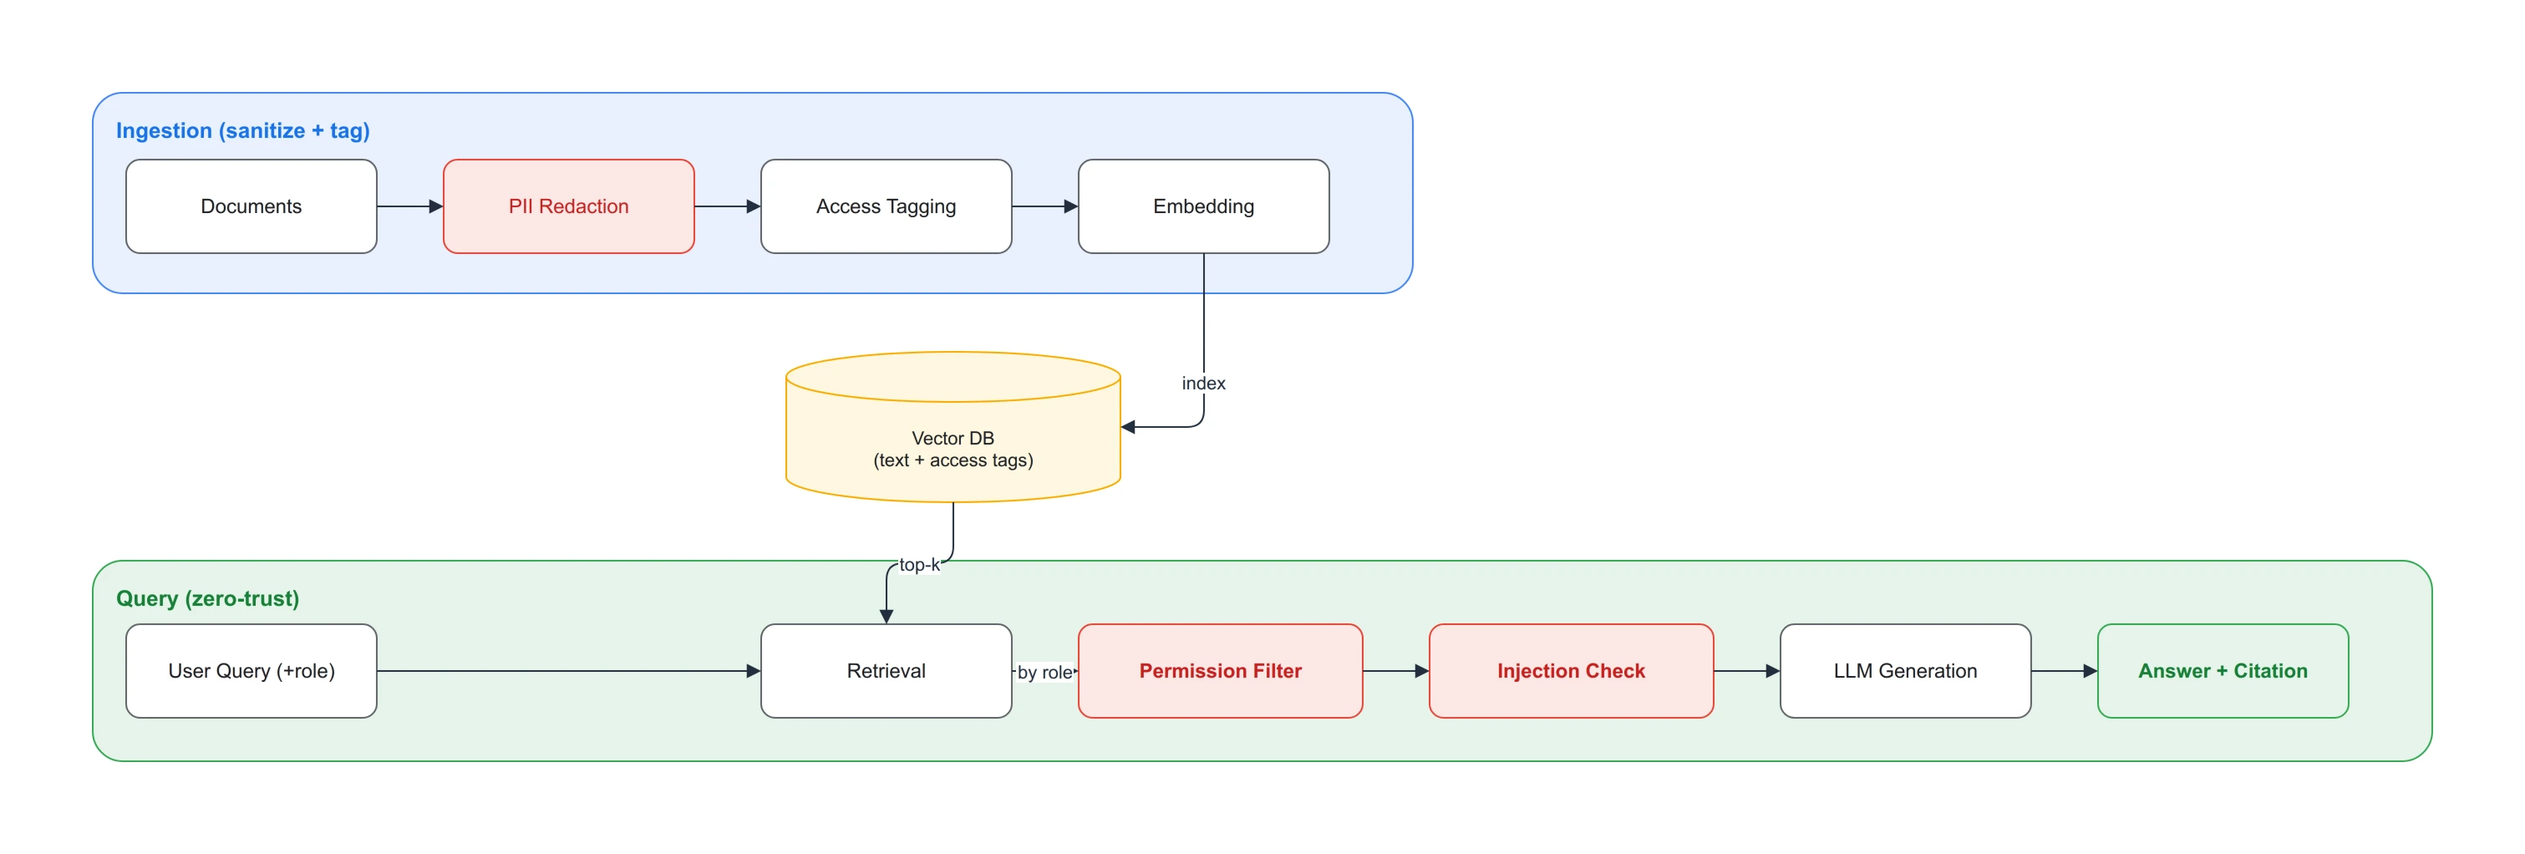
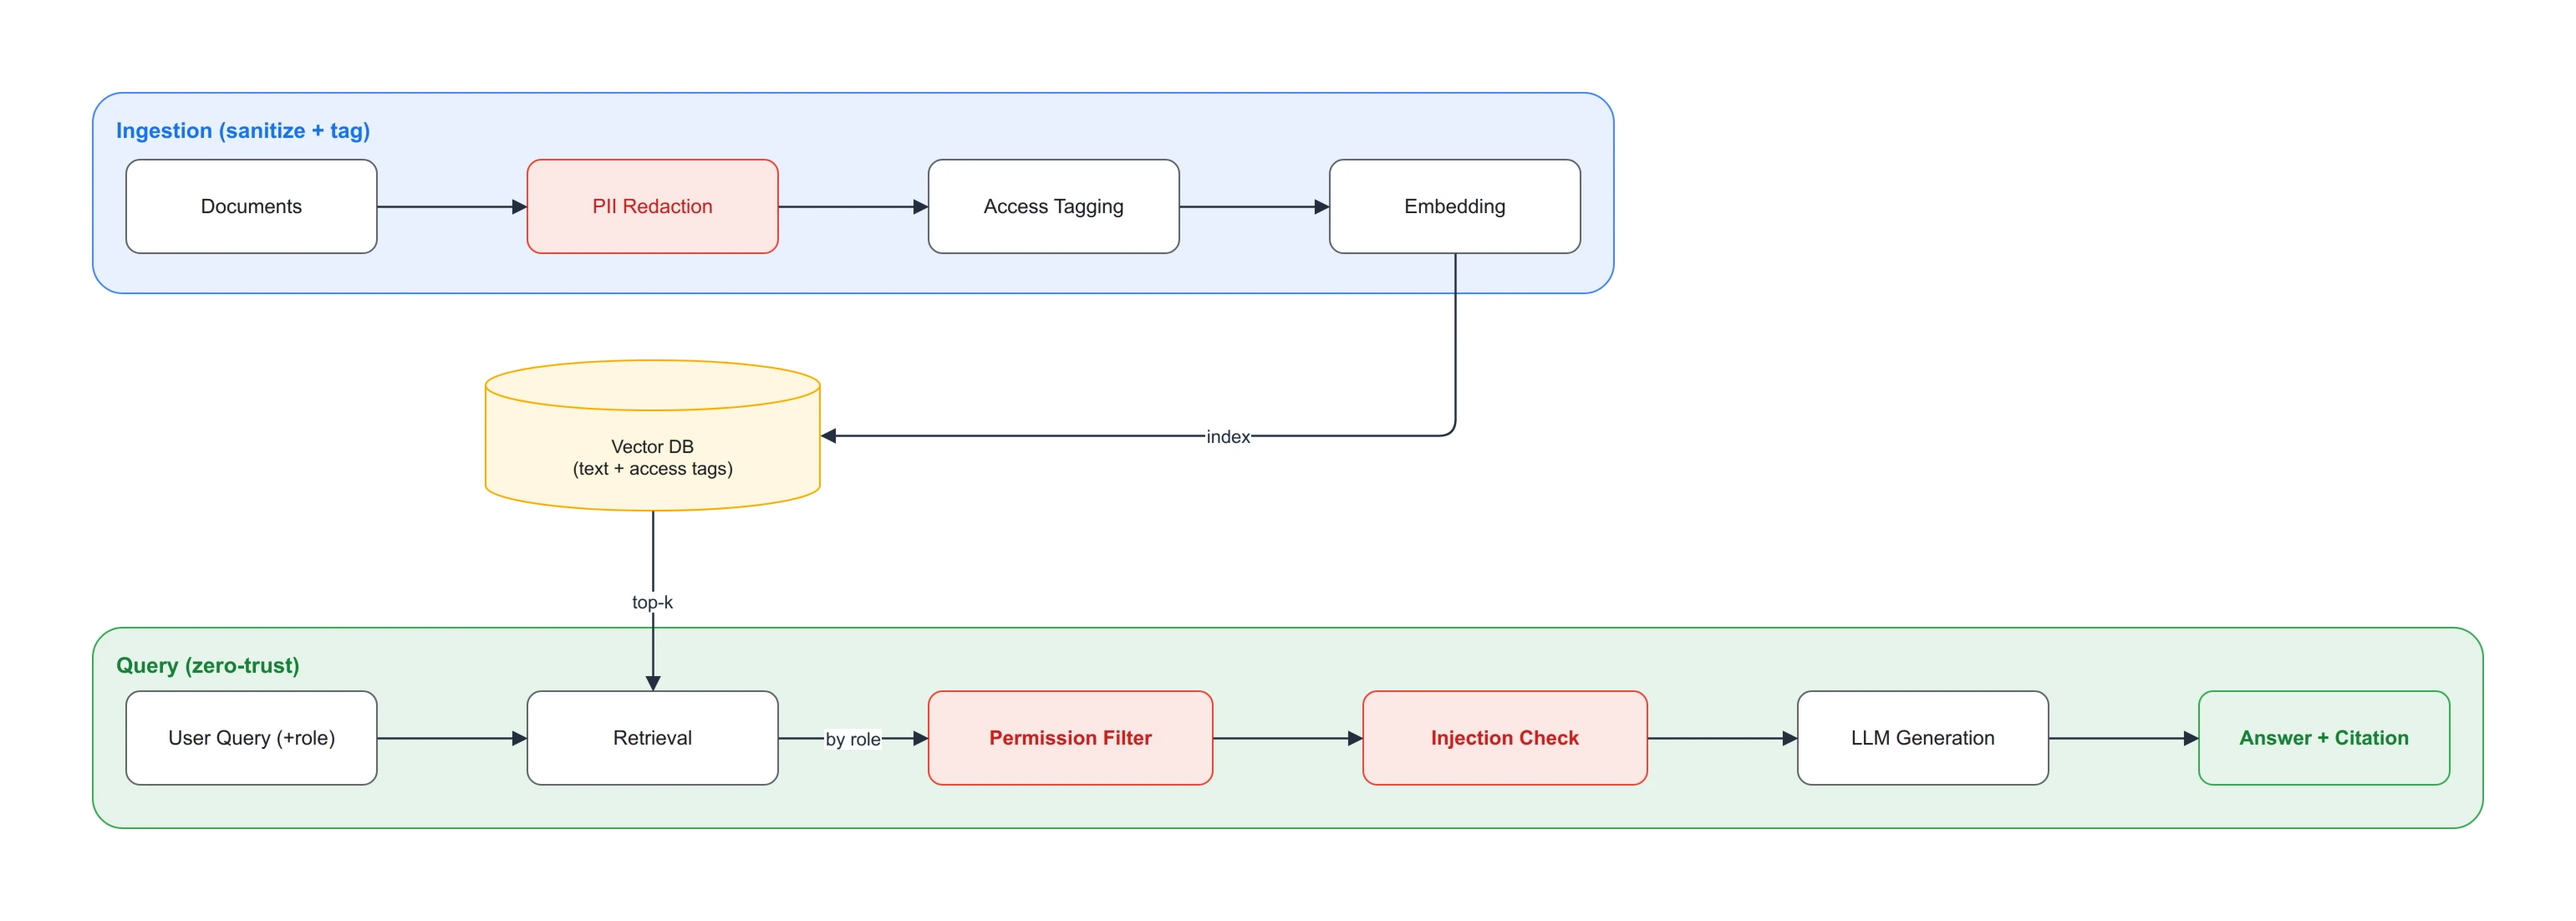
fix: improve RAG diagram routing and spacing (rag-05/06/07)

diff --git a/.claude-handoff-diagram-improvement.md b/.claude-handoff-diagram-improvement.md
@@ -1,0 +1,68 @@
+# Claude Code Handoff: 블로그 다이어그램 품질 개선 + 스킬 고도화
+
+## 작업 1: RAG 다이어그램 3개 수정 (최우선)
+
+사용자가 지적한 문제:
+
+### rag-05-secure-rag-flow.drawio
+- Vector DB -> Retrieval이 이전엔 일자였는데 지금은 꺾임
+- Retrieval -> Permission Filter 사이 "by role" label이 도형 간 여백 부족으로 가시성 해침
+- **수정 방향**: Vector DB와 Retrieval을 같은 x축으로 정렬, 노드 간격 확대
+
+### rag-06-latency-eval.drawio
+- 점선 "hit bypass" -> Answer이 중간 도형과 겹침
+- **수정 방향**: hit bypass edge를 위쪽으로 라우팅하거나 Answer 노드 위치 조정
+
+### rag-07-rag-variants.drawio
+- 전반적인 가시성 저하
+- **수정 방향**: 레이아웃 단순화
+
+## 작업 2: 전체 다이어그램 스킬 고도화 (리서치 기반)
+
+agentskills.io + Archify 분석에서 도출된 개선 기회:
+
+### HIGH 우선순위
+- Eval 벤치마크 도입 (`evals/` 디렉토리): 스킬 품질 측정 피드백 루프
+
+### MEDIUM 우선순위
+- 컨텍스트 읽기 금지 목록: 첫 생성 전 불필요한 파일 읽기 차단
+- 거짓 보고 방지 문장 SKILL.md 본문 강화
+- Intent diff 스크립트: 두 intent 간 변경 추적 자동화
+
+### LOW 우선순위
+- 노드 수 상한 가이드라인
+- SHA-256 해시 영수증
+
+## 규칙 (반드시 준수)
+
+1. **모든 cell에 `html=0`** (예외 없음)
+2. **줄바꿈은 반드시 `&#xa;`** (`&#10;` 사용 금지 - Draw.io에서 문자 그대로 렌더됨)
+3. **모든 edge `strokeWidth=1.25`**
+4. **모든 cell `fontColor` 명시**
+5. **Labeled edge는 `labelBackgroundColor=#FFFFFF`**
+6. **export는 native drawio CLI 사용**: `xvfb-run -a drawio -x -f png -s 2 --crop -b 0 --no-sandbox`
+7. **export 후 pad**: `uv run --with pillow python kkamji_scripts/blog/pad_diagram_margins.py --pad 110`
+8. **HTML 마크업 금지**: `<font>`, `<b>`, `<br>` 태그 사용 불가
+9. **의미 있는 edge label 삭제 금지**: 간격을 늘려서 해결
+10. **`agent=` 속성 제거**
+
+## 작업 환경
+
+- Blog repo: `/home/kkamji/Code/kkamji98.github.io`
+- Settings repo: `/home/kkamji/Code/kkamji-settings`
+- Skill dir: `$HOME/.hermes/skills/drawio-generate-diagram`
+- Export 도구: `/opt/drawio/drawio` 또는 `/usr/bin/drawio`
+- Pad 도구: `kkamji_scripts/blog/pad_diagram_margins.py` (`--pad`, `--verify` 옵션)
+
+## 검증 체크리스트
+
+- [ ] `xmllint --noout` 통과
+- [ ] `html=1` 잔존 0건
+- [ ] `&#10;` 잔존 0건
+- [ ] `strokeWidth=2` 잔존 0건
+- [ ] `<font` 잔존 0건
+- [ ] `agent=` 잔존 0건
+- [ ] gitleaks 통과
+- [ ] Jekyll build 통과
+- [ ] OCR에서 핵심 label 읽힘
+- [ ] Margin 균등 (L≈R≈T≈B)
